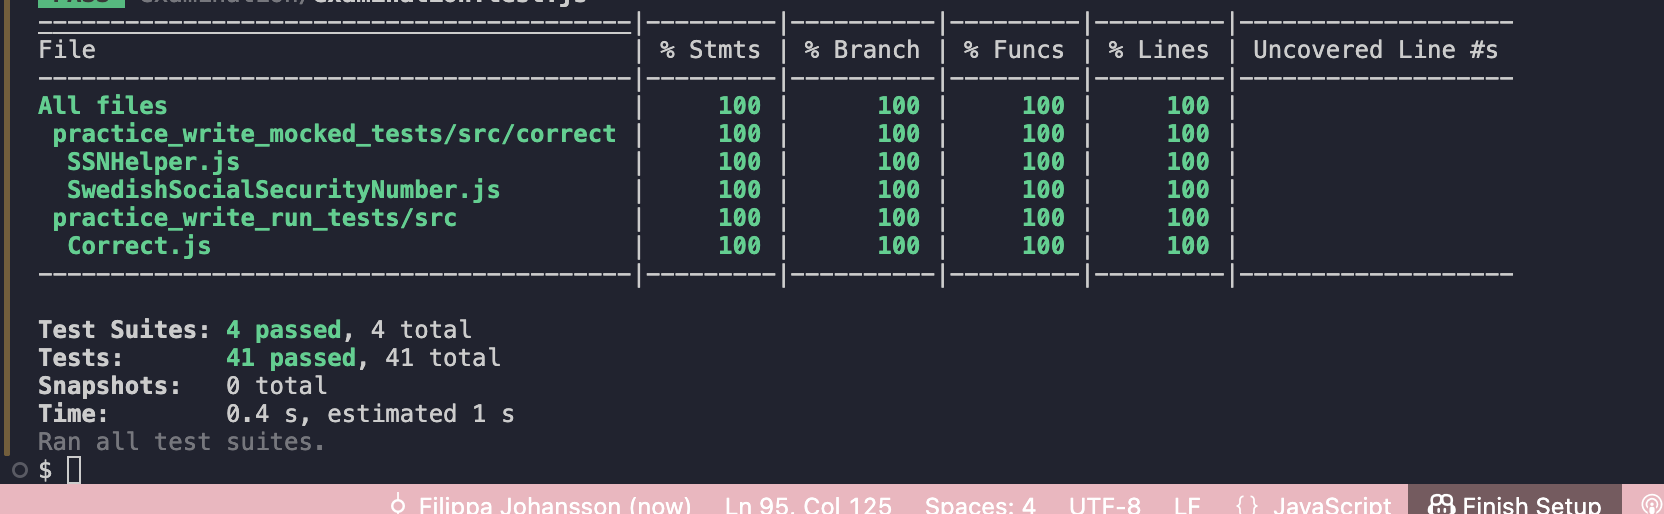
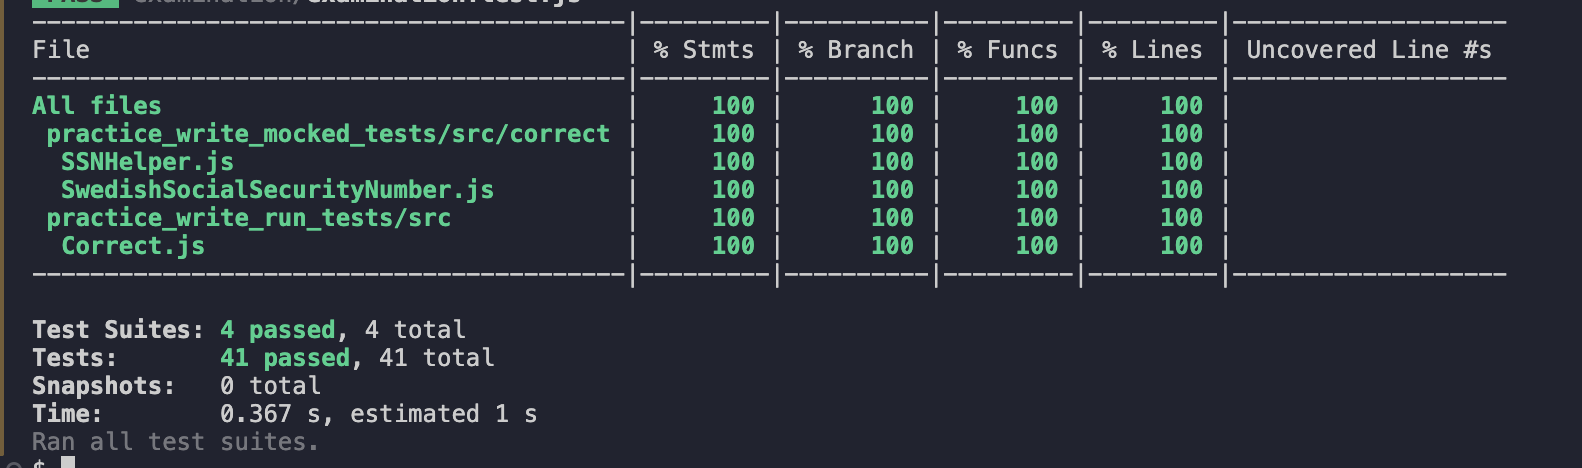
Add updated summaries

Changed region(s): [[0.0, 0.0, 1.0, 1.0]]

diff --git a/Practice_ write_run_tests.md b/Practice_ write_run_tests.md
@@ -53,4 +53,5 @@ Write a test suite for the Password class provided.
 ### Table for checking test suite bug coverage
 Create a table like this one for all the bugs and Tests, showing which test fails or succeeds for each test and the coverage. Use the table to remove tests that are redundant. You may shorten the bug-names to get a slimmer table. 
 
-![report password](/img/summary_password.png)
+![summary password](/img/summary_password1.png)
+![summary password](/img/summary_password2.png)

diff --git a/Practice_write_mocked_tests.md b/Practice_write_mocked_tests.md
@@ -44,11 +44,14 @@ A bug in the SwedishSecurityNumber must not fail due to a bug in SSNHelper.
 
 
 ### Table for checking test suite bug coverage
-## SNN-helper
-![snn-helper summary](/img/summary_snn_helper.png)
+#### SNN-helper
+![snn-helper summary](/img/summary_snnhelper.png)
+
+#### SwedishSecurityNumber
+![ssn summary](/img/summary_ssn.png)
 
 
-## Total coverage
+#### Total coverage
 ![coverage](/img/coverage.png)
 
 
